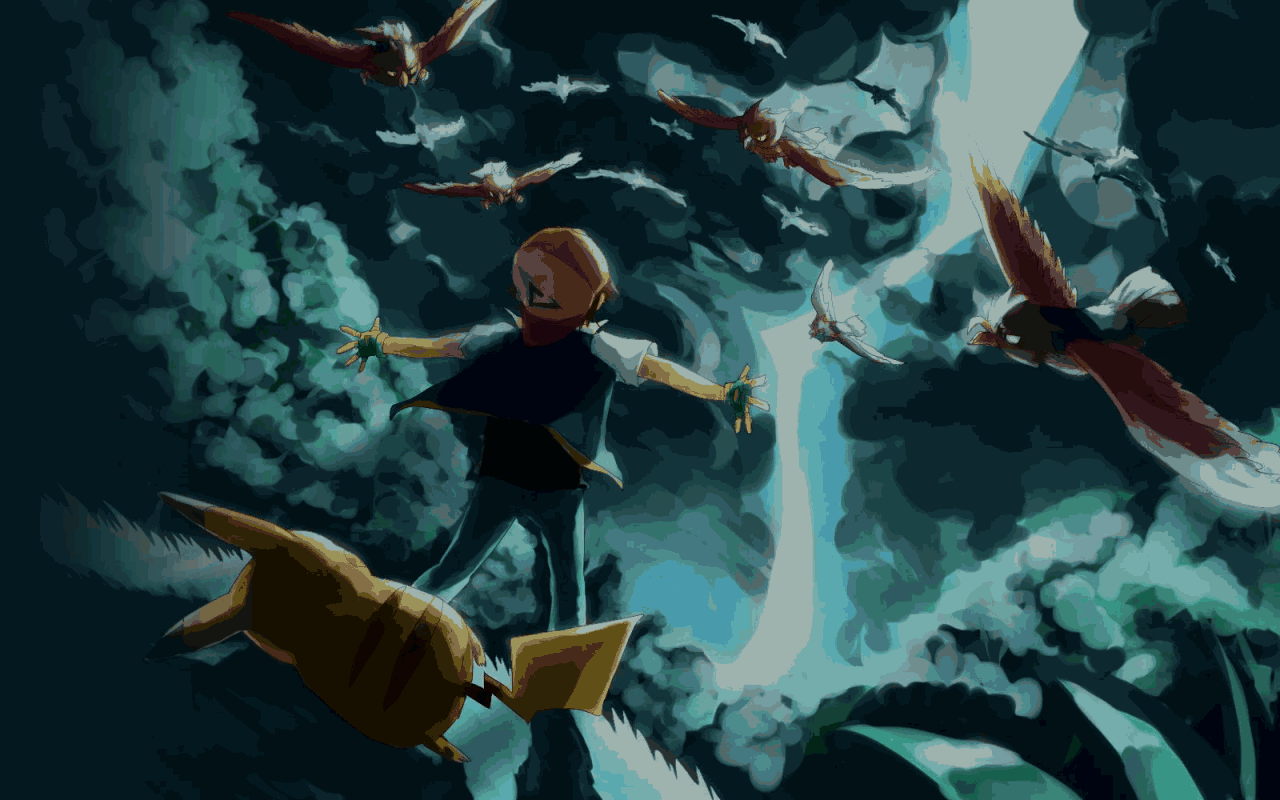
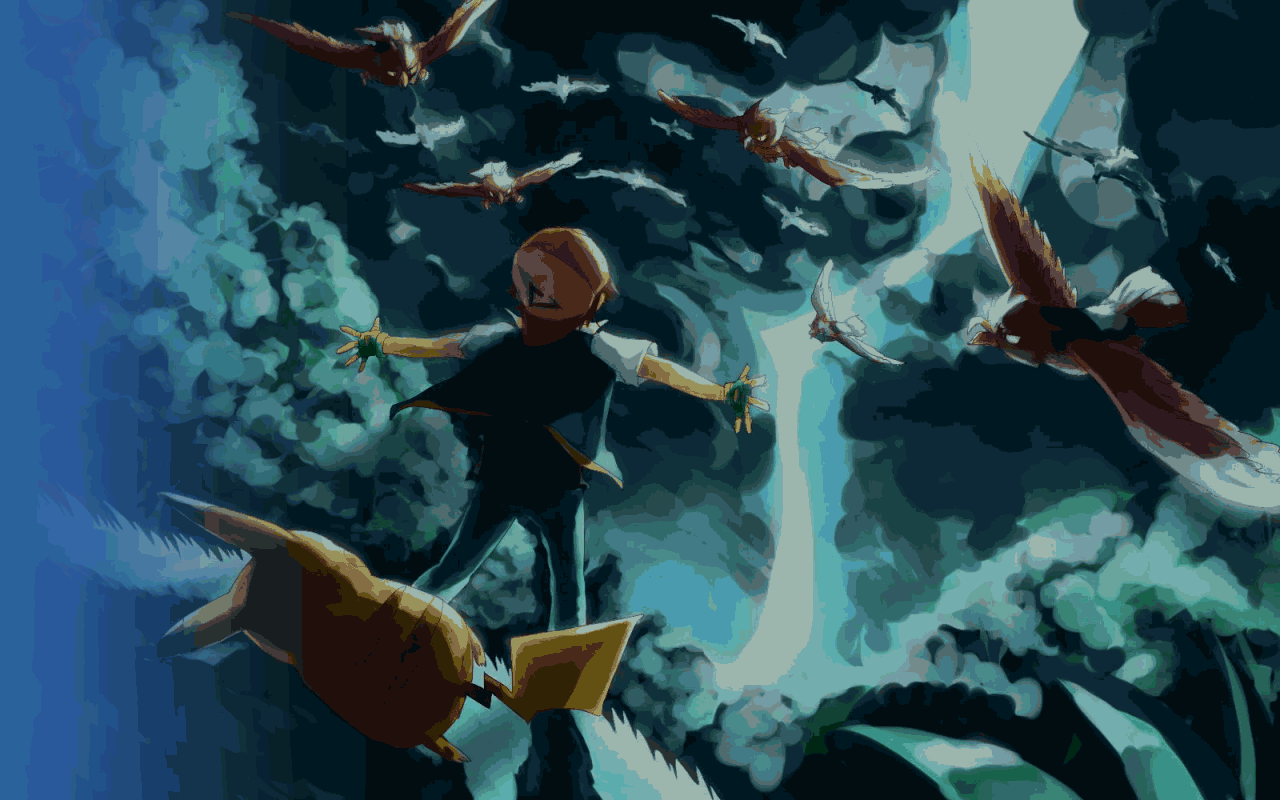
Add files via upload

Changed region(s): [[0.0, 0.0, 0.25, 1.0]]

diff --git a/style.css b/style.css
@@ -1,8 +1,8 @@
 @charset "UTF-8";
 
-:root{
-    --fondo: #06181e;
-    --figura: #d0d6ea;
+:root {
+    --fondo: #2c5e9f;
+    --figura: #ebebeb;
 }
 
 * {
@@ -16,9 +16,9 @@ body {
     color: var(--figura);
 }
 
-body.portada{
-    background:var(--fondo) url('images/332.png') right bottom no-repeat;
-    background-size:auto 100%;
+body.portada {
+    background: var(--fondo) url("images/332.png") right bottom no-repeat;
+    background-size: auto 100%;
 }
 
 a {
@@ -31,8 +31,8 @@ a:hover {
     color: rgba(255, 255, 255, 0.75);
 }
 
-:hover{
-    transition: all ease .5s;
+:hover {
+    transition: all ease 0.5s;
 }
 
 div.container {
@@ -40,19 +40,21 @@ div.container {
     margin: 0 auto;
 }
 
-nav, footer {
+nav,
+footer {
     width: 98%;
-    margin-left:1%;
-    margin-right:1%;
+    margin-left: 1%;
+    margin-right: 1%;
     min-height: 10vh;
     display: flex;
 }
 
-nav p, footer p {
+nav p,
+footer p {
     width: 100%;
     display: flex;
     justify-content: space-between;
-    margin:auto;
+    margin: auto;
 }
 
 .active {
@@ -62,132 +64,131 @@ nav p, footer p {
 
 /* para la página de portada */
 
-header {   
+header {
     width: 98%;
-    margin-left:1%;
-    margin-right:1%;
+    margin-left: 1%;
+    margin-right: 1%;
     min-height: 80vh;
 }
 
-header div{
+header div {
     width: 50%;
-    padding-top:15vh;
+    padding-top: 15vh;
 }
 
-header div h1{
-    font-size:calc(1.5rem + 1vw);
+header div h1 {
+    font-size: calc(1.5rem + 1vw);
     line-height: 1;
     text-shadow: 0 0 2px var(--fondo);
 }
 
-header div p{
-    margin-top:1rem;
+header div p {
+    margin-top: 1rem;
     line-height: 1.5;
     text-shadow: 0 0 2px var(--fondo);
 }
 
-@media screen and (orientation:portrait){
-
-    header div{
+@media screen and (orientation: portrait) {
+    header div {
         width: 100%;
         line-height: 1.5;
-    }     
+    }
 }
 
 /* para todas las páginas que no son portada */
 
-main{
+main {
     width: 100%;
-    padding-top:10vh;
-    min-height: 70vh;    
+    padding-top: 10vh;
+    min-height: 70vh;
 }
 
 /* para la página de películas */
 
-main article{
-    float:left;
-    margin:1%;
-    width:18%;
-    background:rgba(255,255,255,0.1);
+main article {
+    float: left;
+    margin: 1%;
+    width: 18%;
+    background: rgba(255, 255, 255, 0.1);
 }
 
-main article img{
-    width:100%;
-    height:auto;
+main article img {
+    width: 100%;
+    height: auto;
     opacity: 0.6;
 }
 
-main article:hover img{
-    opacity:1;
+main article:hover img {
+    opacity: 1;
 }
 
-main article div{
-    padding:5%;
-    min-height:7.5vh;
+main article div {
+    padding: 5%;
+    min-height: 7.5vh;
 }
 
-main article div h2{
-    font-size:1rem;
-    line-height:1.2;
-    min-height:4rem;
+main article div h2 {
+    font-size: 1rem;
+    line-height: 1.2;
+    min-height: 4rem;
     letter-spacing: 0.05rem;
 }
 
-@media screen and (orientation:portrait){
-    main article{
-        width:48%;
-    }     
+@media screen and (orientation: portrait) {
+    main article {
+        width: 48%;
+    }
 }
 
 /* para cada página de película */
 
-main section{
-    float:left;
-    margin:3% 1% 10% 1%;
-    width:98%;   
+main section {
+    float: left;
+    margin: 3% 1% 10% 1%;
+    width: 98%;
 }
 
-main section h1{
-    font-size:calc(1.5rem + 1vw);
+main section h1 {
+    font-size: calc(1.5rem + 1vw);
     line-height: 1;
 }
 
-main section h3{
-    font-size:1.3rem;
+main section h3 {
+    font-size: 1.3rem;
     line-height: 2.5;
 }
 
-main section h4{
-    font-size:1.2rem;
+main section h4 {
+    font-size: 1.2rem;
     line-height: 2.5;
 }
 
-main section img{
-    max-width:100%;
-    height:auto;
-    margin:1.5rem 0;
+main section img {
+    max-width: 100%;
+    height: auto;
+    margin: 1.5rem 0;
 }
 
-main section p{
-    max-width:100%;
+main section p {
+    max-width: 100%;
     line-height: 1.6;
 }
 
-@media screen and (orientation:landscape){
-    main section p{
-        max-width:75%;
+@media screen and (orientation: landscape) {
+    main section p {
+        max-width: 75%;
         line-height: 1.8;
-    }    
+    }
 }
 
 /* para las páginas de locaciones y ganancias */
 
-main div#mapa{
-    margin:1%;
-    width:98%;
-    height:60vh;
+main div#mapa {
+    margin: 1%;
+    width: 98%;
+    height: 60vh;
 }
 
-main canvas#grafico{
-    background:#232243;
+main canvas#grafico {
+    background: rgba(174, 183, 228, 0.77);
 }
